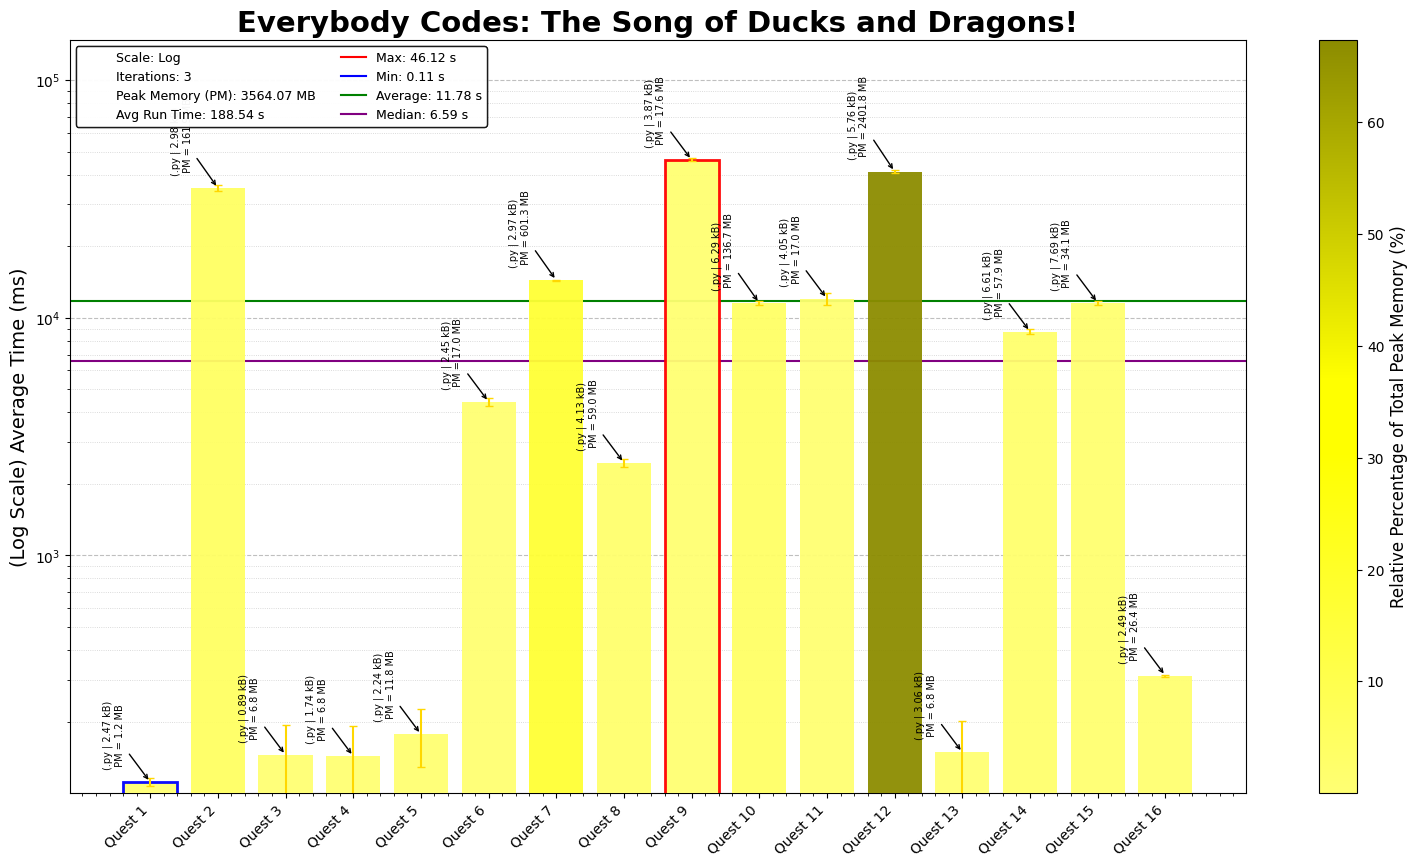
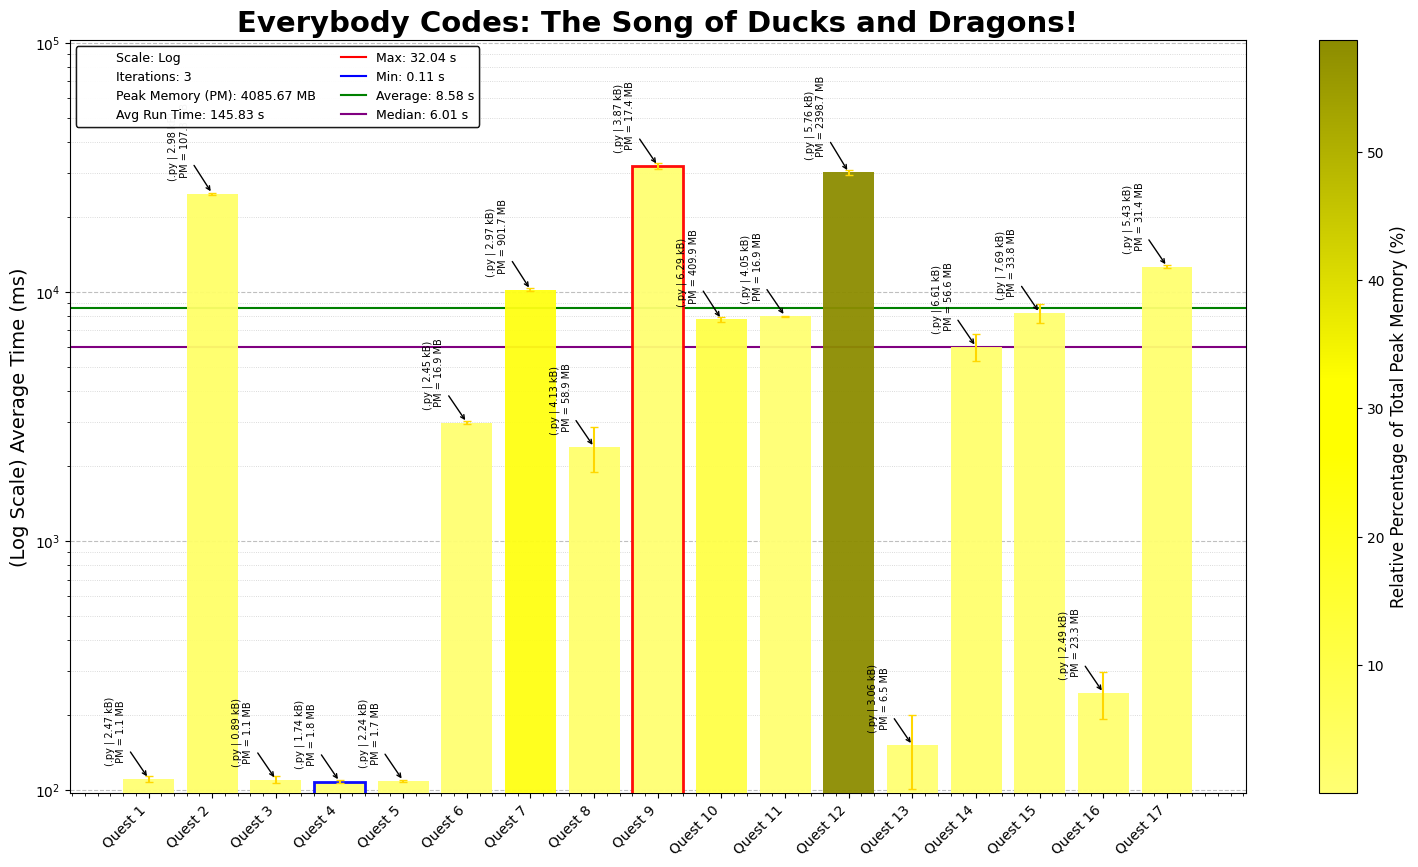
EC 2025 Quest 17: Deadline Driven Development

diff --git a/2025/17/2025Day17.py b/2025/17/2025Day17.py
@@ -1,0 +1,167 @@
+"""Everybody Codes - Quest 17, Year 2025
+Solution Started: November 25, 2025
+Puzzle Link: https://everybody.codes/event/2025/quests/17
+Solution by: Abbas Moosajee
+Brief: [Deadline-Driven Development]"""
+
+#!/usr/bin/env python3
+from pathlib import Path
+from collections import defaultdict, deque
+import time
+start_time = time.time()
+
+# List of input file names
+input_files = ["Day17_input_p1.txt", "Day17_input_p2.txt", "Day17_input_p3.txt"]
+
+# Read and split the input data into individual lists
+input_data_p1, input_data_p2, input_data_p3 = [
+    open(Path(__file__).parent / file).read().strip().split('\n')
+    for file in input_files
+]
+
+class Volcano:
+    def __init__(self, init_map):
+        self.map_dict = self.parse_map(init_map)
+
+    def parse_map(self, base_map):
+        map_dict = {}
+        for row_no, row_data in enumerate(base_map):
+            for col_no, cell in enumerate(row_data):
+                if cell == "@":
+                    self.volcano_pos = (row_no, col_no)
+                elif cell == "S":
+                    self.start_pos = (row_no, col_no)
+                    cell = 0
+                else:
+                    cell = int(cell)
+                map_dict[(row_no, col_no)] = cell
+        return map_dict
+
+    def valid_dist(self, C, V):
+        Xv, Yv = C
+        Xc, Yc = V
+        return (Xv - Xc) * (Xv - Xc) + (Yv - Yc) * (Yv - Yc)
+
+    def check_formula(self, C, V, R):
+        return self.valid_dist(C, V) <= R * R
+
+    def adjacent(self, cell):
+        i, j = cell
+        return [(i+1,j),(i-1,j),(i,j+1),(i,j-1)]
+
+    def lava_flow(self, radius):
+        total = 0
+        for check_pos, cell in self.map_dict.items():
+            if check_pos == self.volcano_pos:
+                continue
+            if self.check_formula(check_pos, self.volcano_pos, radius):
+                total += int(cell)
+        return total
+
+    def max_destruction(self):
+        destruction_calc = {}
+        test_radii = list(range(1, self.volcano_pos[0]  + 1))
+        current_map = self.map_dict.copy()
+        
+        for radius in test_radii:
+            total = 0
+            for check_pos, cell in current_map.items():
+                if check_pos == self.volcano_pos or cell == "S":
+                    continue
+                if self.check_formula(check_pos, self.volcano_pos, radius):
+                    total += int(cell)
+                    current_map[check_pos] = 0
+            destruction_calc[radius] = (total, total * radius)
+        return max(destruction_calc.items(), key=lambda x: x[1][0])
+
+    def loop_for_radius(self, radius):
+        states = defaultdict(lambda: (10**12, None))
+        states[self.start_pos] = (0, None)
+
+        queue = deque(self.adjacent(self.start_pos))
+        visited = set(queue)
+
+        while queue:
+            p = queue.popleft()
+            visited.remove(p)
+
+            best_cost = 10**12
+            best_from = None
+
+            for a in self.adjacent(p):
+                if self.destruction_radius.get(a, -1) >= radius:
+                    cost = states[a][0]
+                    if cost < best_cost:
+                        best_cost = cost
+                        best_from = a
+
+            best_cost += self.grid_weights.get(p, 10**15)
+
+            if best_cost < states[p][0]:
+                states[p] = (best_cost, best_from)
+                for a in self.adjacent(p):
+                    if self.destruction_radius.get(a, -1) >= radius and a not in visited:
+                        queue.append(a)
+                        visited.add(a)
+
+        def trace(p):
+            while p is not None:
+                yield p
+                p = states[p][1]
+
+        # detect left/right crossings
+        mi, mj = self.volcano_pos
+
+        def side(path):
+            for i, j in path:
+                if i == mi:
+                    return "left" if j < mj else "right"
+
+        paths = {p: side(trace(p)) for p in states if states[p][0] < 10**14}
+
+        left = {p for p, s in paths.items() if s == "left"}
+        right = {p for p, s in paths.items() if s == "right"}
+
+        # connect a left point to a right point
+        best = float("inf")
+        for l in left:
+            for a in self.adjacent(l):
+                if a in right:
+                    cost = states[l][0] + states[a][0]
+                    if cost < best:
+                        best = cost
+
+        return best
+
+    def build_loop(self):
+
+        self.grid_weights = self.map_dict.copy()
+        # radius each cell falls under
+        self.destruction_radius = {
+            pos: int(self.valid_dist(pos, self.volcano_pos)**0.5 - 0.0001)
+            for pos, c in self.map_dict.items()
+            if c != '@'
+        }
+
+        # sweep radii
+        max_r = max(self.destruction_radius.values())
+        for radius in range(1, max_r):
+            time_limit = 30 * (radius + 1)
+            res = self.loop_for_radius(radius)
+            if res < time_limit:
+                return radius * res  # final answer
+        return None
+
+volcano_p1 = Volcano(input_data_p1)
+lava_p1 = volcano_p1.lava_flow(10)
+print("Quest 17, P1:", lava_p1)
+
+volcano_p2 = Volcano(input_data_p2)
+lava_p2 = volcano_p2.max_destruction()
+print("Quest 17, P2:", lava_p2[1][1])
+
+volcano_p3 = Volcano(input_data_p3)
+recurlia_cost = volcano_p3.build_loop()
+print("Quest 17, P3:", recurlia_cost)
+
+print(f"Execution Time: {time.time() - start_time:5f}s")

diff --git a/2025/README_2025.md b/2025/README_2025.md
@@ -21,4 +21,5 @@ This repository contains coding solutions for the 2025 Everybody Codes. Each day
 13. **Day 13 - Unlocking the Mountain** Who knew building dials could be fun and deque is COOL.
 14. **Day 14 - The Game of Light**: A play on the Game of Life, fairly basic 1 and 2 with cycle detection P3.
 15. **Day 15 - Definitely Not a Maze**: Build your maze, traverse it, scaled to a 1000.
-16. **Day 16 - Harmonics of Stone**: Building blocks and charm spells fairly simple in the end, even if it took a couple tries
+16. **Day 16 - Harmonics of Stone**: Building blocks and charm spells fairly simple in the end, even if it took a couple tries.
+17. **Day 17 - Deadline-Driven Development**: Simple P1 and P2 for checking an validating cell positions, used to identify best time to build bridge for a changing grid.
